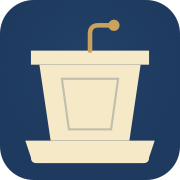
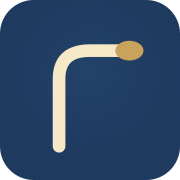
Simplify mark to a microphone and switch to system sans-serif
Logo:
- BrandMark redrawn as just the boom microphone (curved stand + ellipse
  head) to match the user's provided design — no pulpit body.
- BrandStack (vertical splash logo) and BrandWordmark (header) updated
  to use the simpler mark; wordmark keeps "Ram[eum]ptom" with the gold
  middle.
- /public/icon.svg + the three PNG icons regenerated from the new
  microphone-only design.

Typography:
- Drop the Geist webfont in favor of the system font stack so the app
  reads as SF Pro on iOS/macOS, Segoe on Windows, Roboto on Android,
  and Arial as the universal fallback. No webfont download = faster
  paint and a more native feel everywhere.
- --font-sans is now defined directly in globals.css; Geist Mono stays
  for code/numbers.

diff --git a/src/components/brand-mark.tsx b/src/components/brand-mark.tsx
@@ -1,20 +1,14 @@
 import { cn } from "@/lib/utils";
 
 /**
- * The Rameumptom pulpit mark — a clean silhouette of a lectern with a thin
- * microphone reaching over the top and an inset panel on the front face.
- * Single-color via `currentColor` so it adapts to whatever context it's
- * dropped into.
+ * The Rameumptom mark — a single curved boom microphone reaching up and
+ * to the right. Uses `currentColor` so it adapts to whatever context it
+ * is dropped into.
  */
 export function BrandMark({
   className,
-  accentClassName,
-  showMic = true,
 }: {
   className?: string;
-  /** Tailwind class for the microphone color, e.g. "text-[--brand-gold]". */
-  accentClassName?: string;
-  showMic?: boolean;
 }) {
   return (
     <svg
@@ -24,54 +18,29 @@ export function BrandMark({
       aria-hidden
       focusable="false"
     >
-      {/* Pulpit silhouette (currentColor) */}
-      <g fill="currentColor">
-        {/* Top lectern surface — slight extension wider than body */}
-        <path d="M 11 18 L 53 18 L 53 23 L 11 23 Z" />
-        {/* Body — trapezoid (wider at top, narrower at bottom) */}
-        <path d="M 14 23 L 50 23 L 46 50 L 18 50 Z" />
-        {/* Base platform */}
-        <path d="M 9 50 L 55 50 L 53 56 Q 53 58 51 58 L 13 58 Q 11 58 11 56 Z" />
-      </g>
-
-      {/* Inset panel detail on the body (background-cut) */}
+      {/* Curved stand — base at bottom-left, up, then arches over to the right */}
       <path
-        d="M 22 28 L 42 28 L 39.5 46 L 24.5 46 Z"
+        d="M 18 56 L 18 24 Q 18 12 30 12 L 42 12"
         fill="none"
         stroke="currentColor"
-        strokeWidth="0.8"
-        opacity="0.18"
+        strokeWidth="4"
+        strokeLinecap="round"
       />
-
-      {/* Microphone — bent stand reaching up and forward */}
-      {showMic && (
-        <g className={accentClassName}>
-          <path
-            d="M 32 18 L 32 12 Q 32 9 35 9 L 39 9"
-            fill="none"
-            stroke="currentColor"
-            strokeWidth="1.6"
-            strokeLinecap="round"
-          />
-          <circle cx="40.5" cy="9" r="2" fill="currentColor" />
-        </g>
-      )}
+      {/* Mic head — small flattened oval at the top-right of the arch */}
+      <ellipse cx="46" cy="12" rx="6" ry="4" fill="currentColor" />
     </svg>
   );
 }
 
 /**
- * Vertical logo lockup: large pulpit mark above the wordmark. Used on the
- * splash / home page and the auth screens as a larger, centered identity.
+ * Vertical lockup: large mark above the wordmark. Used on the splash and
+ * the auth screens.
  */
 export function BrandStack({ className }: { className?: string }) {
   return (
-    <div className={cn("inline-flex flex-col items-center gap-3", className)}>
-      <BrandMark
-        className="w-24 h-24 text-current"
-        accentClassName="text-[var(--brand-gold)]"
-      />
-      <span className="font-semibold tracking-tight text-3xl leading-none">
+    <div className={cn("inline-flex flex-col items-center gap-5", className)}>
+      <BrandMark className="w-20 h-20 text-current" />
+      <span className="font-semibold tracking-tight text-4xl leading-none">
         Ram
         <span className="text-[var(--brand-gold)]">eum</span>
         ptom
@@ -81,16 +50,12 @@ export function BrandStack({ className }: { className?: string }) {
 }
 
 /**
- * Horizontal logo lockup: pulpit mark + "Rameumptom" wordmark with the
- * accent "eum" in the brand gold. Used in the top header.
+ * Horizontal lockup: mark + wordmark side by side. Used in the top header.
  */
 export function BrandWordmark({ className }: { className?: string }) {
   return (
     <span className={cn("inline-flex items-center gap-2.5", className)}>
-      <BrandMark
-        className="w-7 h-7 text-current"
-        accentClassName="text-[var(--brand-gold)]"
-      />
+      <BrandMark className="w-7 h-7 text-current" />
       <span className="font-semibold tracking-tight text-lg leading-none">
         Ram
         <span className="text-[var(--brand-gold)]">eum</span>

diff --git a/src/app/layout.tsx b/src/app/layout.tsx
@@ -1,14 +1,13 @@
 import type { Metadata } from "next";
-import { Geist, Geist_Mono } from "next/font/google";
+import { Geist_Mono } from "next/font/google";
 import { Toaster } from "@/components/ui/sonner";
 import { SiteDisclaimer } from "@/components/site-disclaimer";
 import "./globals.css";
 
-const geistSans = Geist({
-  variable: "--font-geist-sans",
-  subsets: ["latin"],
-});
-
+// Body text uses the system font stack — SF Pro on iOS/macOS, Segoe on
+// Windows, Roboto on Android, and Arial as the universal fallback. Reads
+// instantly native on every device without a webfont download. Mono stays
+// Geist Mono for code/numbers where we need it.
 const geistMono = Geist_Mono({
   variable: "--font-geist-mono",
   subsets: ["latin"],
@@ -47,7 +46,7 @@ export default function RootLayout({
   return (
     <html
       lang="en"
-      className={`${geistSans.variable} ${geistMono.variable} h-full antialiased`}
+      className={`${geistMono.variable} h-full antialiased`}
     >
       <body className="min-h-full flex flex-col">
         {children}

diff --git a/src/app/globals.css b/src/app/globals.css
@@ -7,7 +7,10 @@
 @theme inline {
   --color-background: var(--background);
   --color-foreground: var(--foreground);
-  --font-sans: var(--font-sans);
+  /* Native system sans-serif stack — SF Pro on Apple, Segoe on Windows,
+     Roboto on Android, Arial as the universal fallback. */
+  --font-sans: ui-sans-serif, -apple-system, BlinkMacSystemFont, "Segoe UI",
+    Roboto, "Helvetica Neue", Arial, sans-serif;
   --font-mono: var(--font-geist-mono);
   --font-heading: var(--font-sans);
   --color-sidebar-ring: var(--sidebar-ring);
